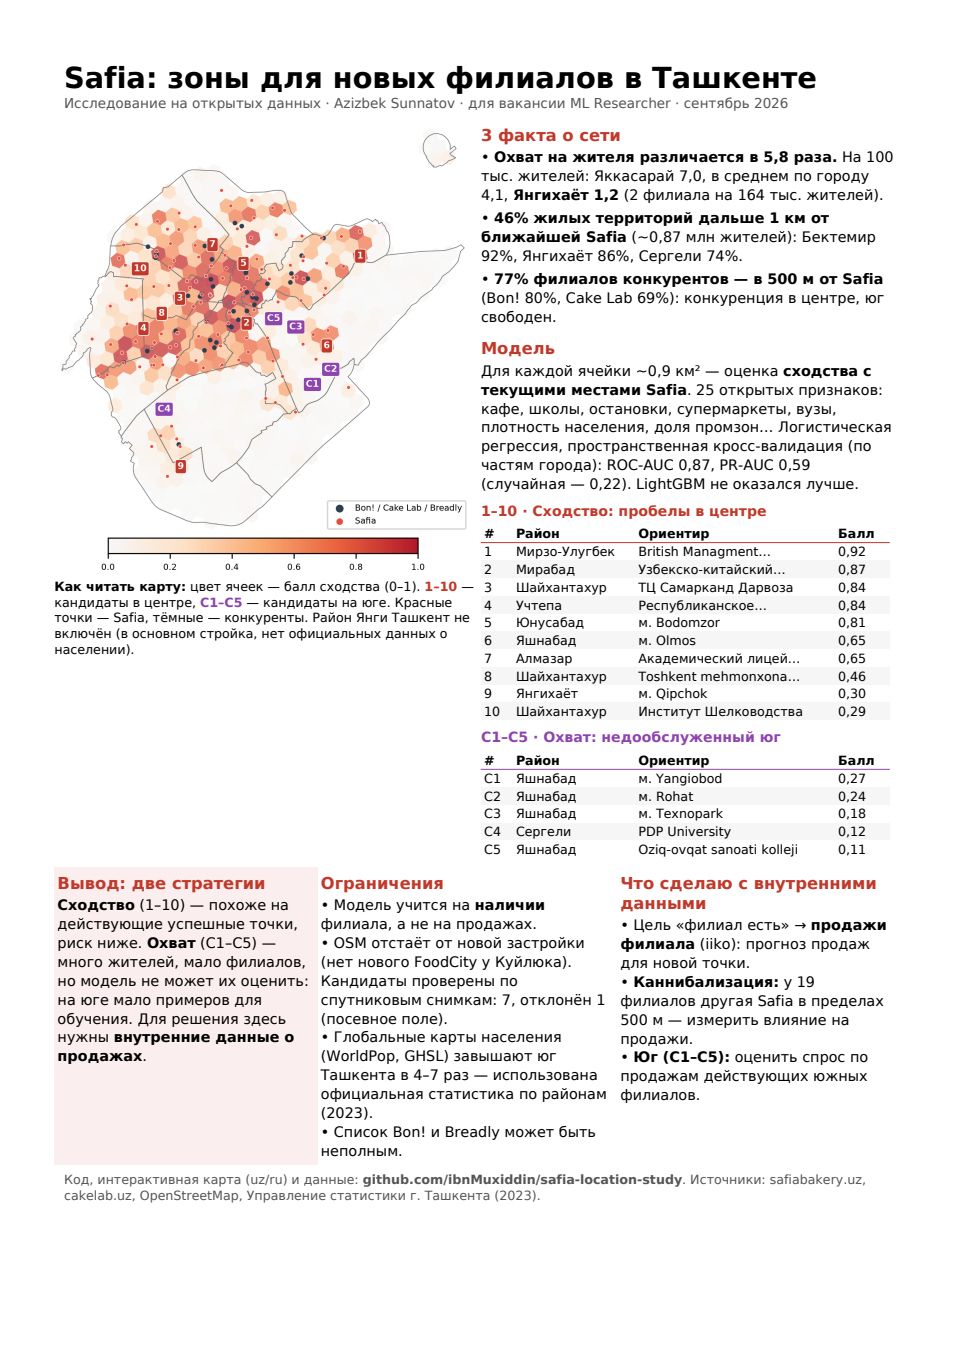
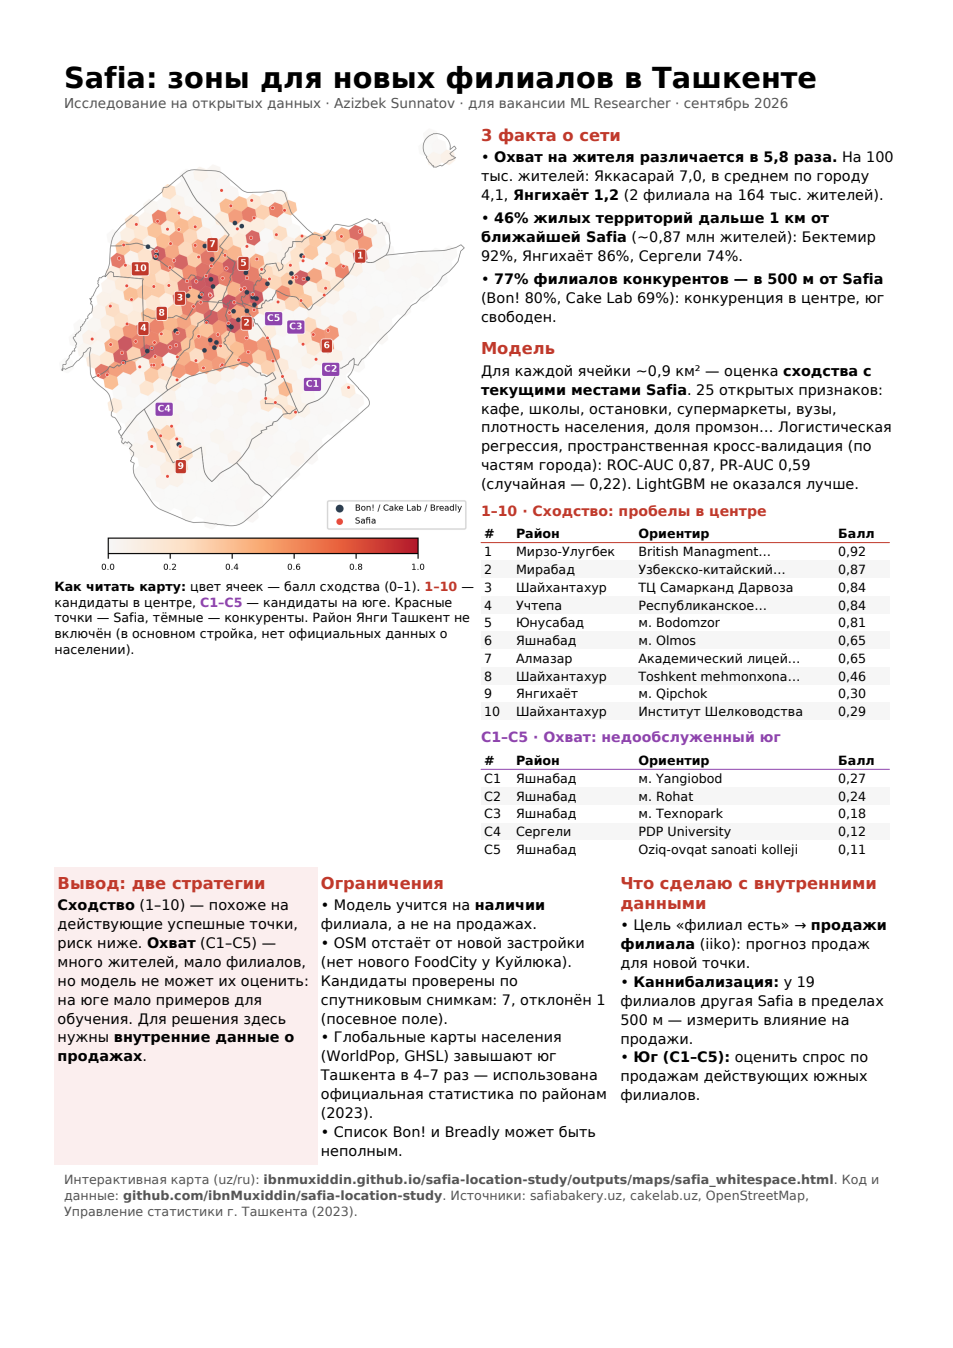
Add browser link to the interactive map in README and report

Changed region(s): [[0.0609, 0.8724, 0.9129, 0.9036]]

diff --git a/src/12_report.py b/src/12_report.py
@@ -31,6 +31,7 @@ from config import DATA_INTERIM, DATA_PROCESSED, DATA_RAW, OUTPUTS_FIGURES, REPO
 
 AUTHOR = "Azizbek Sunnatov"
 REPO_URL = "github.com/ibnMuxiddin/safia-location-study"
+MAP_URL = "ibnmuxiddin.github.io/safia-location-study/outputs/maps/safia_whitespace.html"
 MAP_PNG = OUTPUTS_FIGURES / "12_report_map.png"
 RED, PURPLE, GREY = "#c0392b", "#8e44ad", "#555555"
 SCORE_COLORS = ["#f7f7f7", "#fde0c5", "#f9a870", "#e8603c", "#b2182b"]
@@ -173,7 +174,7 @@ def texts(lang: str, f: dict, m: dict, checks: pd.DataFrame) -> dict:
                      f"<b>Kannibalizatsiya:</b> {f['safia_close_pairs']} filialning {f['overlap_m']} m ichida boshqa Safia bor — "
                      "sotuvga ta'sirini o'lchash.",
                      "<b>Janub (C1–C5):</b> mavjud janubiy filiallar sotuvi bo'yicha talabni baholash."],
-            "foot": f"Kod, interaktiv xarita (uz/ru) va ma'lumotlar: <b>{REPO_URL}</b>. "
+            "foot": f"Interaktiv xarita (uz/ru): <b>{MAP_URL}</b>. Kod va ma'lumotlar: <b>{REPO_URL}</b>. "
                     "Manbalar: safiabakery.uz, cakelab.uz, OpenStreetMap, Toshkent shahar statistika boshqarmasi (2023).",
         }
     return {
@@ -219,7 +220,7 @@ def texts(lang: str, f: dict, m: dict, checks: pd.DataFrame) -> dict:
                  f"<b>Каннибализация:</b> у {f['safia_close_pairs']} филиалов другая Safia в пределах {f['overlap_m']} м — "
                  "измерить влияние на продажи.",
                  "<b>Юг (C1–C5):</b> оценить спрос по продажам действующих южных филиалов."],
-        "foot": f"Код, интерактивная карта (uz/ru) и данные: <b>{REPO_URL}</b>. "
+        "foot": f"Интерактивная карта (uz/ru): <b>{MAP_URL}</b>. Код и данные: <b>{REPO_URL}</b>. "
                 "Источники: safiabakery.uz, cakelab.uz, OpenStreetMap, Управление статистики г. Ташкента (2023).",
     }
 

diff --git a/README.md b/README.md
@@ -9,7 +9,7 @@ internal Safia data was used.
 | | |
 |---|---|
 | One-page report | [Uzbek](reports/safia_location_uz.pdf) · [Russian](reports/safia_location_ru.pdf) |
-| Interactive map (uz/ru) | [`outputs/maps/safia_whitespace.html`](outputs/maps/safia_whitespace.html). Download and open it in a browser. |
+| Interactive map (uz/ru) | **[Open in the browser](https://ibnmuxiddin.github.io/safia-location-study/outputs/maps/safia_whitespace.html)** (source: [`outputs/maps/safia_whitespace.html`](outputs/maps/safia_whitespace.html)) |
 | Findings with all numbers | [`docs/findings.md`](docs/findings.md) |
 
 ![Report preview](outputs/figures/12_report_preview_uz.png)
